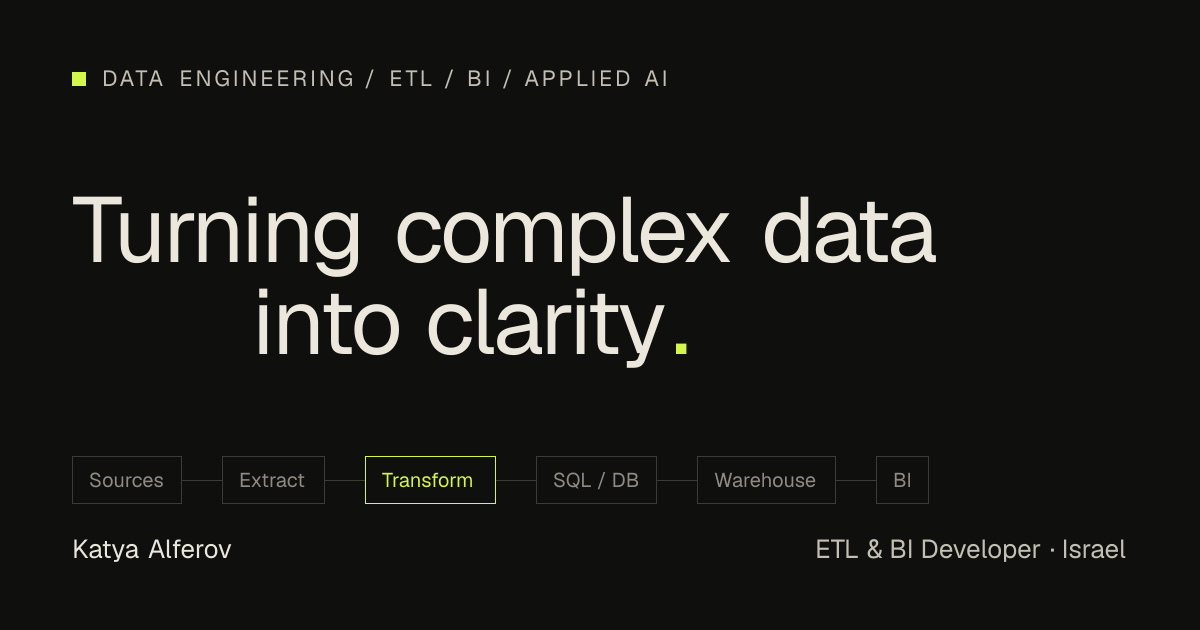
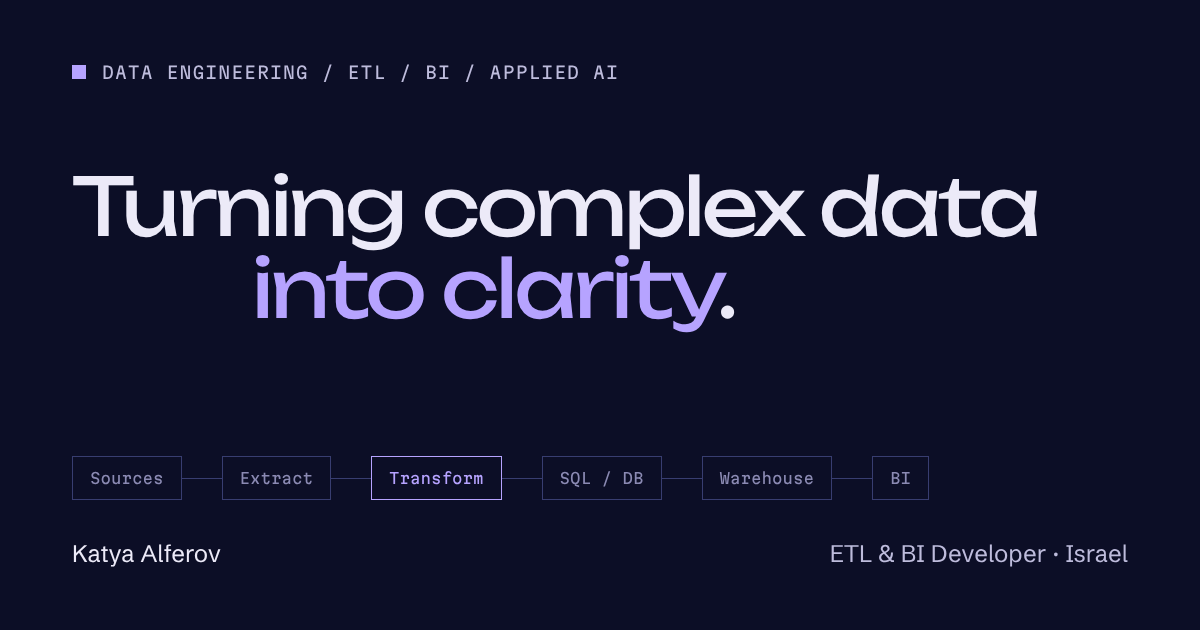
Name the Tami Lazer ad project and redraw share images in the new fonts and colours
Claude-Session: https://claude.ai/code/session_012mKdrpmSySDRy7Q8CGtTt3

diff --git a/src/content/profile.ts b/src/content/profile.ts
@@ -731,18 +731,19 @@ export type Project = {
  */
 export const projects: Project[] = [
   {
-    // TODO(Katya): replace with the real client name, scope, channels, visuals and results.
-    slug: "bat-yam-laser-campaign",
-    title: "Advertising campaign for a laser company in Bat Yam",
+    // TODO(Katya): add what was produced, channels, visuals and results.
+    slug: "tami-lazer-ad",
+    title: "Tami Lazer: commercial ad",
     year: "2026",
     summary:
-      "A local advertising campaign for a laser company in Bat Yam, Israel: from the campaign idea and messaging to the creative and the media plan aimed at customers in Bat Yam and the surrounding area.",
+      "A commercial ad for digital media for Tami Lazer, a laser company in Bat Yam, Israel: from the idea and the message to the finished creative, made for the platforms where the company's local customers spend their time.",
     points: [
-      "Campaign concept, messaging and ad copy",
-      "Creative for digital and social channels",
-      "Local targeting and performance tracking",
+      "Concept, messaging and script",
+      "Creative produced for digital and social media",
+      "Aimed at customers in Bat Yam and the surrounding area",
     ],
-    stack: ["Campaign strategy", "Copywriting", "Creative", "Paid social", "Local marketing"],
+    stack: ["Advertising", "Copywriting", "Creative", "Digital media", "Local marketing"],
+    links: [{ label: "Project on GitHub", href: "https://github.com/katya-alferov/TamiLazer-ad" }],
   },
   {
     slug: "adpulse",
